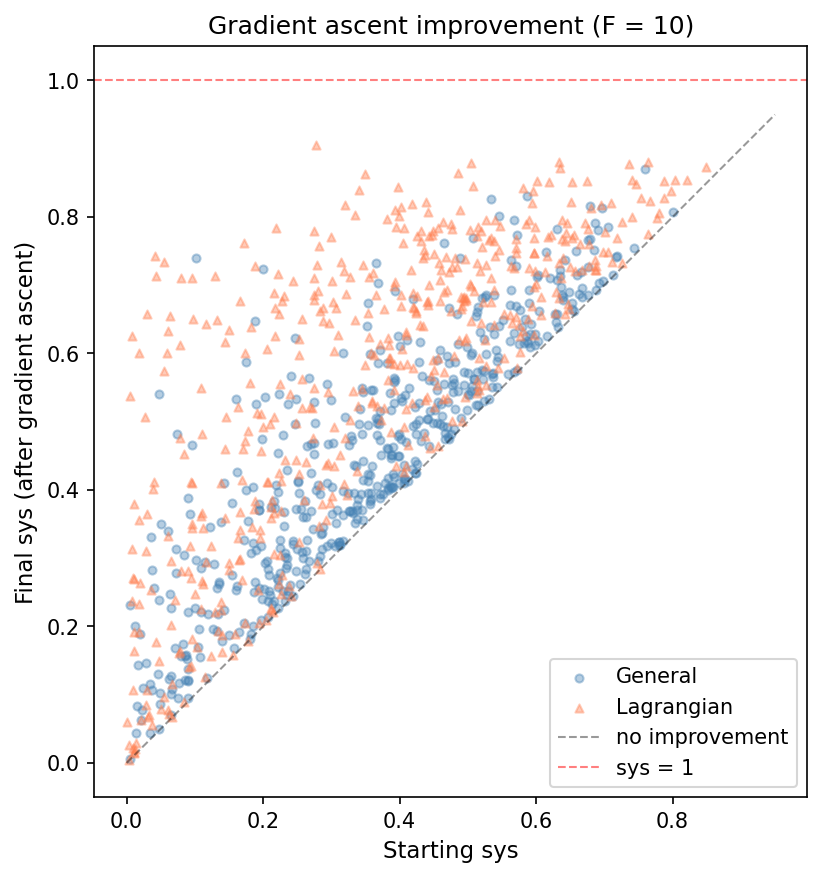
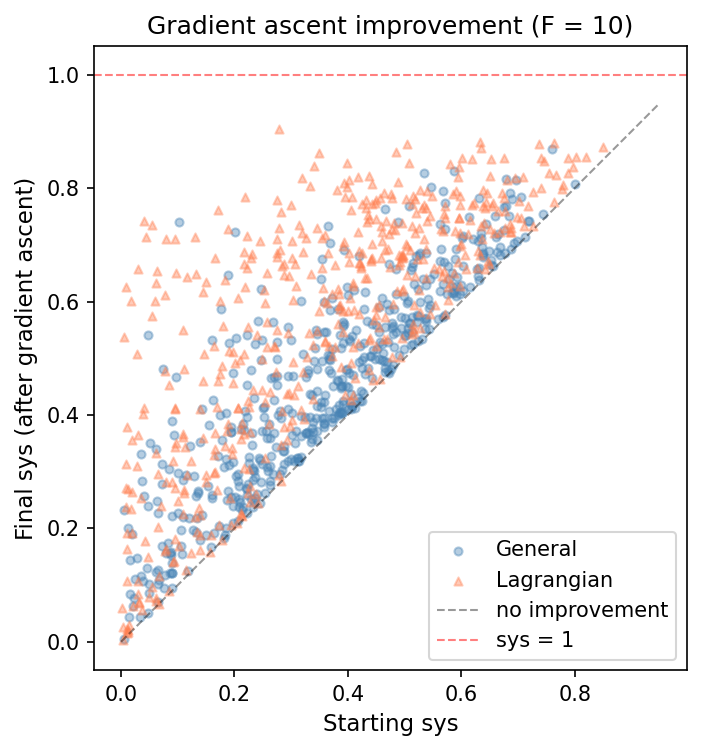
Fix figures: 1:1 sizing, split 3-panel into separate figures
- textwidth is ~5.4" (A4 + default margins), not 6.3"
- Split convergence 3-panel into gradient, stepsize, survival figures
- Each figure at figsize=(5.4, 3.5), rendered 1:1 in PDF
- Remove width=\textwidth from \includegraphics (plain pass-through)
- Remove all fontsize= hacks (no longer needed at 1:1)
- Scatter figure: 6.5" → 5.4" to fit textwidth
- Delete old gradient_descent_convergence.png

diff --git a/experiments/gradient-descent/gradient_descent.py b/experiments/gradient-descent/gradient_descent.py
@@ -5,8 +5,10 @@ Analyze gradient ascent results on F=10 polytopes.
 Goal: Visualize gradient ascent outcomes and diagnose convergence behavior.
 Input: experiments/gradient-descent/gradient-descent.jsonl (7631 rows, 995 polytopes)
 Output:
-  - gradient_descent_scatter.png      (starting vs final sys, by class)
-  - gradient_descent_convergence.png  (gradient norms + step size dynamics)
+  - gradient_descent_scatter.png    (starting vs final sys, by class)
+  - gradient_descent_gradient.png   (residual gradient vs final sys)
+  - gradient_descent_stepsize.png   (step size evolution per iteration)
+  - gradient_descent_survival.png   (convergence survival curve)
   - stdout: summary table and convergence statistics cited in gradient-descent.tex
 """
 
@@ -70,7 +72,7 @@ def load_data():
 
 def plot_scatter(summaries):
     """Scatter: starting sys vs final sys, colored by polytope class."""
-    fig, ax = plt.subplots(1, 1, figsize=(6.5, 6.5))
+    fig, ax = plt.subplots(1, 1, figsize=(5.4, 5.4))
 
     general = [s for s in summaries if s["polytope_type"] == "general"]
     lagrangian = [s for s in summaries if s["polytope_type"] != "general"]
@@ -99,16 +101,10 @@ def plot_scatter(summaries):
     print(f"Saved {out}")
 
 
-def plot_convergence(rows, by_name):
-    """Combined figure: gradient norms at termination + step size dynamics.
+def plot_gradient_vs_sys(by_name):
+    """Scatter: residual height gradient vs final sys at termination."""
+    fig, ax = plt.subplots(1, 1, figsize=(5.4, 3.5))
 
-    3-panel figure at ~6.3" rendered width. At figsize=(13, 4.5) the ~2x
-    downscale requires boosted fonts to stay readable in print.
-    """
-    fig, axes = plt.subplots(1, 3, figsize=(13, 4.5))
-
-    # Panel 1: height gradient norm vs final sys
-    ax = axes[0]
     for ptype, color, marker in [
         ("general", "steelblue", "o"),
         ("lagrangian", "coral", "^"),
@@ -140,15 +136,22 @@ def plot_convergence(rows, by_name):
                        alpha=0.7, color=color, marker="x", s=35,
                        label=f"{ptype} (max iter)")
 
-    ax.set_xlabel("Final sys", fontsize=16)
-    ax.set_ylabel(r"$\|\nabla_h\,\mathrm{sys}\|$ at termination", fontsize=16)
+    ax.set_xlabel("Final sys")
+    ax.set_ylabel(r"$\|\nabla_h\,\mathrm{sys}\|$ at termination")
     ax.set_yscale("log")
-    ax.set_title("Residual height gradient", fontsize=17)
-    ax.tick_params(labelsize=14)
-    ax.legend(fontsize=12)
+    ax.set_title("Residual height gradient")
+    ax.legend()
 
-    # Panel 2: step size evolution (median with IQR)
-    ax = axes[1]
+    out = EXPERIMENT_DIR / "gradient_descent_gradient.png"
+    fig.savefig(out, dpi=150, bbox_inches="tight")
+    plt.close(fig)
+    print(f"Saved {out}")
+
+
+def plot_step_size(rows, by_name):
+    """Step size evolution: median with IQR band per iteration."""
+    fig, ax = plt.subplots(1, 1, figsize=(5.4, 3.5))
+
     for ptype, color in [("general", "steelblue"), ("lagrangian", "coral")]:
         by_iter = defaultdict(list)
         for name, iters in by_name.items():
@@ -169,14 +172,21 @@ def plot_convergence(rows, by_name):
         ax.fill_between(iters_sorted, p25, p75, color=color, alpha=0.15)
 
     ax.set_yscale("log")
-    ax.set_xlabel("Iteration", fontsize=16)
-    ax.set_ylabel("Step size $t$", fontsize=16)
-    ax.set_title("Step size shrinks exponentially", fontsize=17)
-    ax.tick_params(labelsize=14)
-    ax.legend(fontsize=12)
+    ax.set_xlabel("Iteration")
+    ax.set_ylabel("Step size $t$")
+    ax.set_title("Step size shrinks exponentially")
+    ax.legend()
 
-    # Panel 3: survival curve (active polytopes per iteration)
-    ax = axes[2]
+    out = EXPERIMENT_DIR / "gradient_descent_stepsize.png"
+    fig.savefig(out, dpi=150, bbox_inches="tight")
+    plt.close(fig)
+    print(f"Saved {out}")
+
+
+def plot_survival(by_name):
+    """Survival curve: active polytopes per iteration."""
+    fig, ax = plt.subplots(1, 1, figsize=(5.4, 3.5))
+
     for ptype, color in [("general", "steelblue"), ("lagrangian", "coral")]:
         by_iter = defaultdict(int)
         for name, iters in by_name.items():
@@ -191,16 +201,12 @@ def plot_convergence(rows, by_name):
         counts = [by_iter[i] for i in iters_sorted]
         ax.plot(iters_sorted, counts, color=color, marker=".", markersize=5, label=ptype)
 
-    ax.set_xlabel("Iteration", fontsize=16)
-    ax.set_ylabel("Active polytopes", fontsize=16)
-    ax.set_title("Convergence survival curve", fontsize=17)
-    ax.tick_params(labelsize=14)
-    ax.legend(fontsize=12)
+    ax.set_xlabel("Iteration")
+    ax.set_ylabel("Active polytopes")
+    ax.set_title("Convergence survival curve")
+    ax.legend()
 
-    fig.suptitle("Convergence diagnostics (F = 10)", fontsize=19, y=1.02)
-    fig.tight_layout()
-
-    out = EXPERIMENT_DIR / "gradient_descent_convergence.png"
+    out = EXPERIMENT_DIR / "gradient_descent_survival.png"
     fig.savefig(out, dpi=150, bbox_inches="tight")
     plt.close(fig)
     print(f"Saved {out}")
@@ -295,7 +301,9 @@ def main():
 
     print(f"Loaded {len(summaries)} polytope trajectories, {len(rows)} iteration rows.")
     plot_scatter(summaries)
-    plot_convergence(rows, by_name)
+    plot_gradient_vs_sys(by_name)
+    plot_step_size(rows, by_name)
+    plot_survival(by_name)
     print_summary_table(summaries)
     print_convergence_stats(by_name, rows)
 

diff --git a/experiments/gradient-descent/gradient-descent.tex b/experiments/gradient-descent/gradient-descent.tex
@@ -78,7 +78,7 @@ Lagrangian 5$\times$5 & 164 & 0.628 & 0.905 & 0.806 & 0.217 \\
 
 \begin{figure}[htbp]
 \centering
-\includegraphics[width=\textwidth]{../experiments/gradient-descent/gradient_descent_scatter.png}
+\includegraphics{../experiments/gradient-descent/gradient_descent_scatter.png}
 \caption{Starting vs.\ final $\mathrm{sys}$ under gradient ascent.
   Nearly all points lie above the diagonal.
   Lagrangian products (coral) cluster at higher values than
@@ -102,26 +102,39 @@ The median $\|\nabla_h\,\mathrm{sys}\|$ at termination
 is~$0.36$ for general polytopes and~$0.53$ for Lagrangian products.
 Moreover, $\|\nabla_h\,\mathrm{sys}\|$ is \emph{positively}
 correlated with final $\mathrm{sys}$ (Pearson $r \approx 0.80$;
-Figure~\ref{fig:gd-convergence}, left):
+Figure~\ref{fig:gd-gradient}):
 polytopes with higher final $\mathrm{sys}$ tend to have
 larger residual gradients.
 
 \begin{figure}[htbp]
 \centering
-\includegraphics[width=\textwidth]{../experiments/gradient-descent/gradient_descent_convergence.png}
-\caption{Convergence diagnostics.
-  Left: residual height gradient $\|\nabla_h\,\mathrm{sys}\|$ vs.\
-  final $\mathrm{sys}$; higher final $\mathrm{sys}$ correlates with
-  larger residual gradients ($r \approx 0.80$).
-  Center: median step size (with IQR band) drops by 2--3 orders of
-  magnitude over the first 10~iterations.
-  Right: survival curve (number of polytopes still improving
-  at each iteration).}
-\label{fig:gd-convergence}
+\includegraphics{../experiments/gradient-descent/gradient_descent_gradient.png}
+\caption{Residual height gradient $\|\nabla_h\,\mathrm{sys}\|$ vs.\
+  final $\mathrm{sys}$ at termination.
+  Higher final $\mathrm{sys}$ correlates with
+  larger residual gradients ($r \approx 0.80$).}
+\label{fig:gd-gradient}
+\end{figure}
+
+\begin{figure}[htbp]
+\centering
+\includegraphics{../experiments/gradient-descent/gradient_descent_stepsize.png}
+\caption{Median step size (with IQR band) per iteration.
+  The step bound drops by 2--3 orders of magnitude
+  over the first 10~iterations.}
+\label{fig:gd-stepsize}
+\end{figure}
+
+\begin{figure}[htbp]
+\centering
+\includegraphics{../experiments/gradient-descent/gradient_descent_survival.png}
+\caption{Convergence survival curve: number of polytopes
+  still improving at each iteration.}
+\label{fig:gd-survival}
 \end{figure}
 
 The cause is visible in the step size dynamics
-(Figure~\ref{fig:gd-convergence}, center):
+(Figure~\ref{fig:gd-stepsize}):
 the step bound~$t_{\max}$ shrinks exponentially,
 dropping by 2--3 orders of magnitude over the first 10~iterations.
 The line search selects the most aggressive fraction
